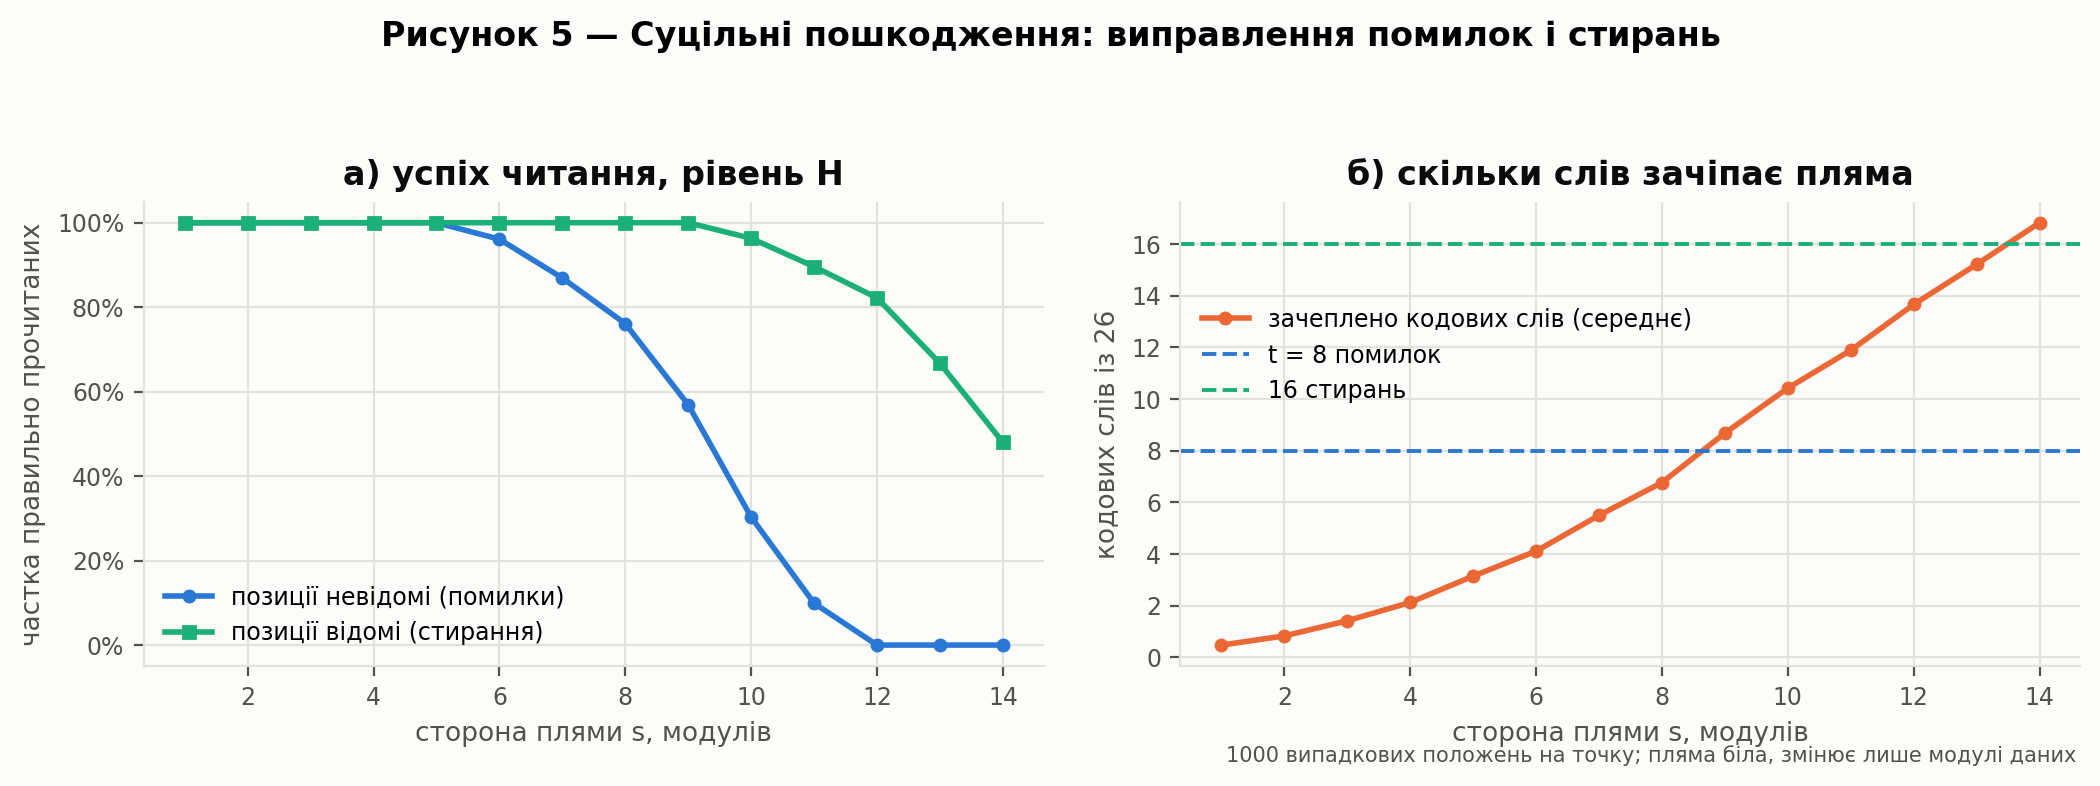
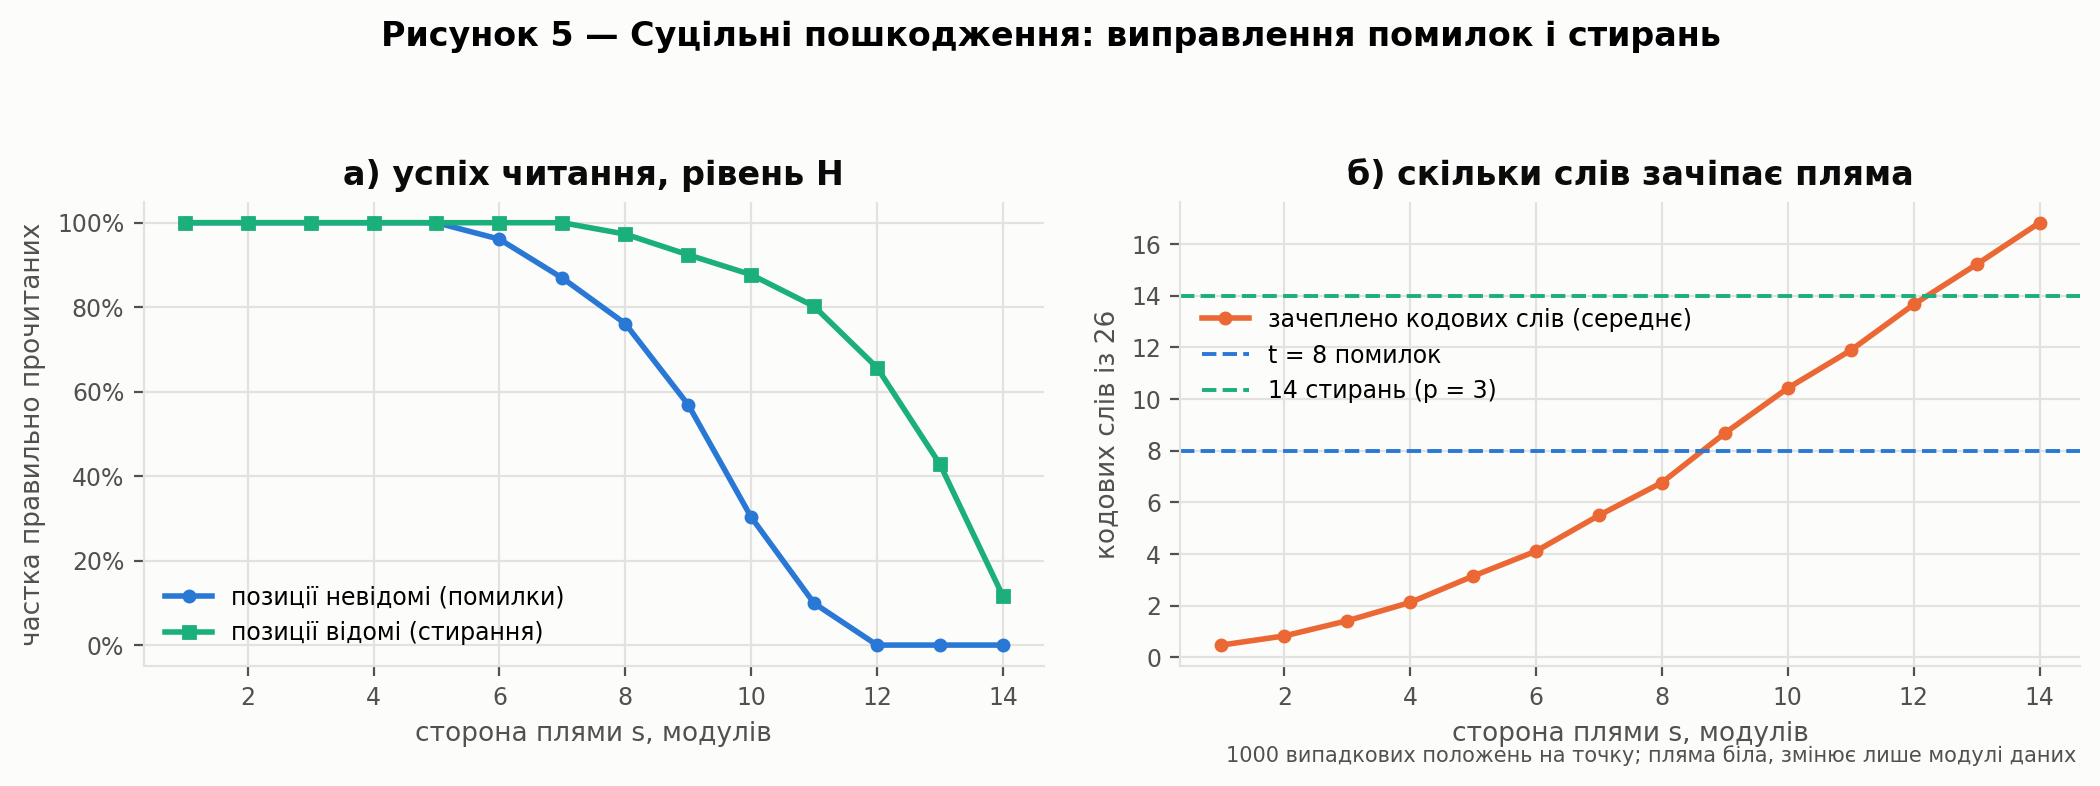
Резерв p = 3 для стирань і уточнення тексту
Понад половину перевірних слів у стираннях декодер резервує p = 3 (для
рівня H — до 14 стирань без помилок); експеримент із плямами перераховано.
Уточнено оцінку хибного декодування, гарантію для модулів даних і опис
термінатора та заповнювачів.

diff --git a/src/qrv1/decoder.py b/src/qrv1/decoder.py
@@ -128,14 +128,25 @@ def parse_segments(data: list[int], byte_encoding: str = "auto") -> list[tuple[s
     return segments
 
 
+def erasure_reserve(level: layout.Level, erasures: int) -> int:
+    """Резерв p: за таблицею рівня, але не менше 3, коли стирань більше
+    половини перевірних слів."""
+    if 2 * erasures > level.ecc_codewords:
+        return max(level.reserve, 3)
+    return level.reserve
+
+
 def decode(matrix, *, correct: bool = True, erasure_modules=(), reserve: bool = True,
            byte_encoding: str = "auto") -> DecodeResult:
     """Повне декодування QR версії 1.
 
     ``erasure_modules`` — позиції (рядок, стовпець) модулів, які відомо
     пошкоджені (наприклад, закриті логотипом); вони стають стираннями
-    відповідних кодових слів. ``reserve=False`` дозволяє витратити на
-    виправлення й резервні байти p (поза вимогами стандарту).
+    відповідних кодових слів. Резерв p береться з таблиці рівнів, а якщо
+    стирань більше половини перевірних слів — p = 3 (консервативне
+    правило для стирань; для рівня H це межа 14 стирань без помилок).
+    ``reserve=False`` дозволяє витратити на виправлення й резервні байти
+    (поза вимогами стандарту).
     """
     m = _check(matrix)
     level_name, mask, distance = layout.decode_format(m)
@@ -147,10 +158,10 @@ def decode(matrix, *, correct: bool = True, erasure_modules=(), reserve: bool = 
     if correct:
         erasures = sorted({layout.CODEWORD_OF_MODULE[p] for p in erasure_modules
                            if p in layout.CODEWORD_OF_MODULE})
+        reserved = erasure_reserve(level, len(erasures)) if reserve else 0
         try:
             fixed, corrected = reed_solomon.decode(
-                words, level.ecc_codewords, erasures,
-                reserve=level.reserve if reserve else 0)
+                words, level.ecc_codewords, erasures, reserve=reserved)
         except reed_solomon.RSDecodeError as exc:
             raise QRDecodeError(f"корекція не вдалася: {exc}") from exc
     else:

diff --git a/tests/test_codec.py b/tests/test_codec.py
@@ -99,14 +99,26 @@ def test_full_decoder_corrects_eight_damaged_codewords() -> None:
         assert result.text == "Warrior" and set(result.corrected) <= set(words)
 
 
-def test_erasures_recover_sixteen_codewords() -> None:
+@pytest.mark.parametrize("count,readable", [(8, True), (9, True), (14, True), (15, False), (16, False)])
+def test_erasure_limit_with_reserve_three(count: int, readable: bool) -> None:
+    # Понад 8 стирань (половина з 17 перевірних слів) резерв зростає до p = 3:
+    # e ≤ 17 − 3 = 14. До 8 стирань діє p = 1 з таблиці рівня H.
     qr = encode("Warrior", "H", 0)
-    lost = [p for p in layout.DATA_POSITIONS if layout.CODEWORD_OF_MODULE[p] < 16]
+    lost = [p for p in layout.DATA_POSITIONS if layout.CODEWORD_OF_MODULE[p] < count]
     damaged = [row[:] for row in qr.matrix]
     for r, c in lost:
         damaged[r][c] = 0
-    assert try_decode(damaged) is None
-    assert decode(damaged, erasure_modules=lost).text == "Warrior"
+    got = try_decode(damaged, erasure_modules=lost)
+    assert (got == "Warrior") == readable
+    if count > 8:
+        assert try_decode(damaged) is None          # без знання позицій — забагато
+
+
+def test_eight_erasures_leave_room_for_four_errors() -> None:
+    from qrv1.decoder import erasure_reserve
+    assert erasure_reserve(layout.LEVELS["H"], 8) == 1
+    assert erasure_reserve(layout.LEVELS["H"], 9) == 3
+    assert erasure_reserve(layout.LEVELS["L"], 2) == 3
 
 
 def test_kata_scan_ignores_everything_except_length_and_text() -> None:

diff --git a/experiments/run_experiments.py b/experiments/run_experiments.py
@@ -469,7 +469,7 @@ def exp_blocks(rng: random.Random, quick: bool) -> dict:
     ax.plot(sides, [r["touched_mean"] for r in rows], "o-", color=S2, ms=4,
             label="зачеплено кодових слів (середнє)")
     ax.axhline(8, color=S1, ls="--", lw=1.4, label="t = 8 помилок")
-    ax.axhline(16, color=S3, ls="--", lw=1.4, label="16 стирань")
+    ax.axhline(14, color=S3, ls="--", lw=1.4, label="14 стирань (p = 3)")
     ax.set_xlabel("сторона плями s, модулів")
     ax.set_ylabel("кодових слів із 26")
     ax.set_title("б) скільки слів зачіпає пляма")

diff --git a/docs/results/summary.md b/docs/results/summary.md
@@ -49,13 +49,13 @@
 | 5 | 1.000 | 1.000 | 3.15 |
 | 6 | 0.961 | 1.000 | 4.11 |
 | 7 | 0.869 | 1.000 | 5.50 |
-| 8 | 0.761 | 1.000 | 6.77 |
-| 9 | 0.569 | 1.000 | 8.68 |
-| 10 | 0.303 | 0.963 | 10.42 |
-| 11 | 0.099 | 0.896 | 11.89 |
-| 12 | 0.000 | 0.822 | 13.66 |
-| 13 | 0.000 | 0.667 | 15.21 |
-| 14 | 0.000 | 0.480 | 16.82 |
+| 8 | 0.761 | 0.973 | 6.77 |
+| 9 | 0.569 | 0.924 | 8.68 |
+| 10 | 0.303 | 0.877 | 10.42 |
+| 11 | 0.099 | 0.802 | 11.89 |
+| 12 | 0.000 | 0.657 | 13.66 |
+| 13 | 0.000 | 0.428 | 15.21 |
+| 14 | 0.000 | 0.116 | 16.82 |
 
 ## Підміна «PAY 100» → «PAY 900»
 
